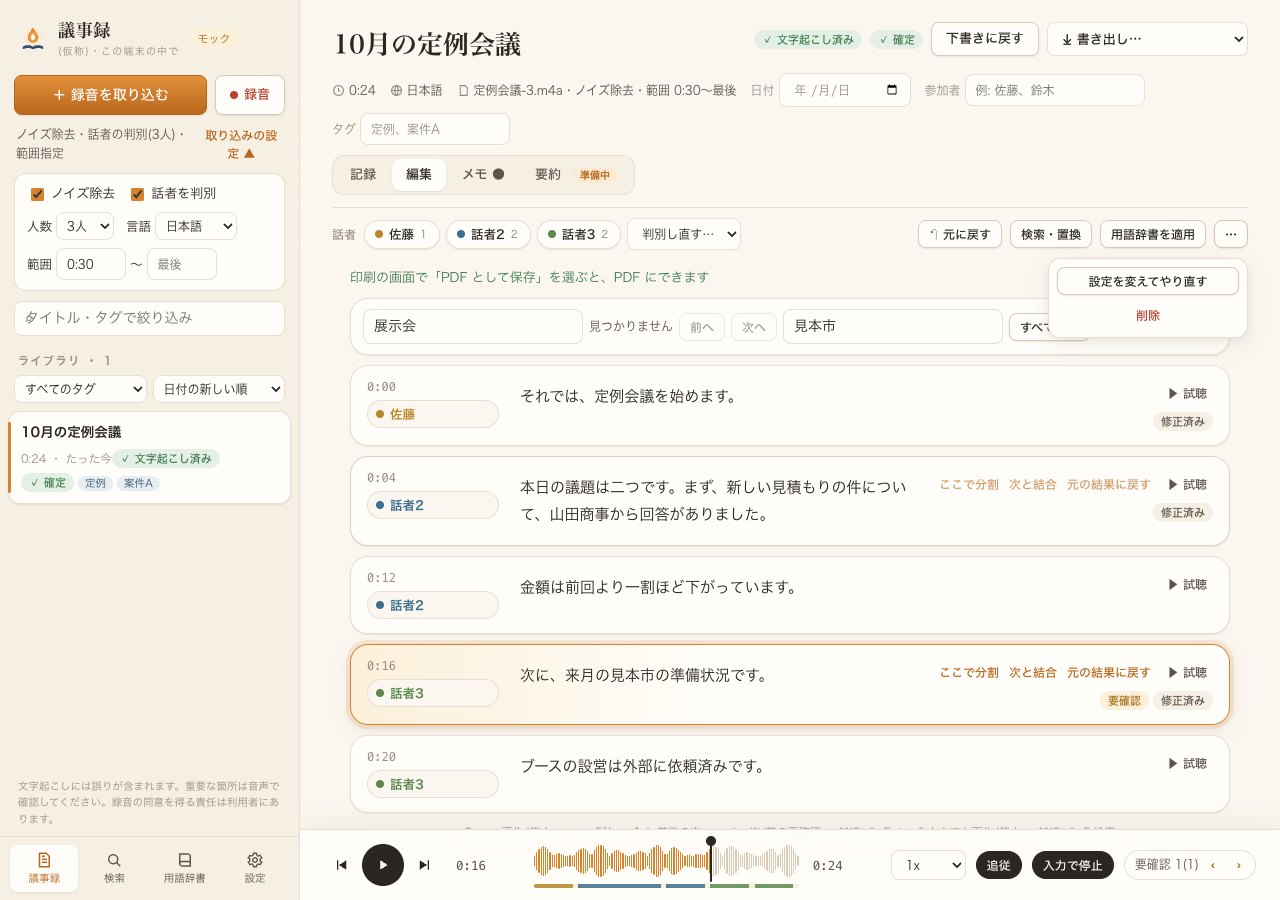
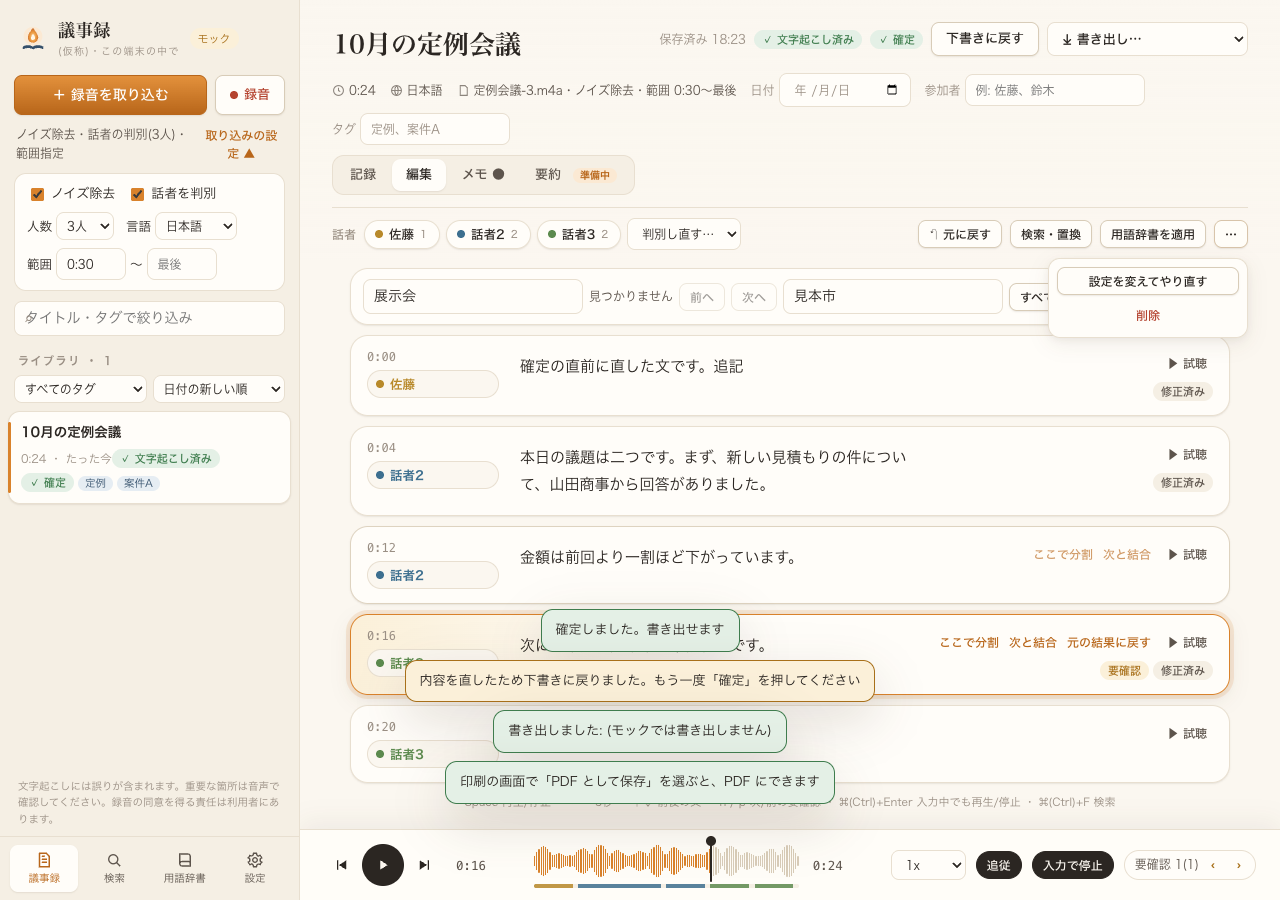
fix(minutes): 入力直後に「確定」を押すと確定が効かない問題を直し、保存・停止の状況を画面に出す
入力欄を離れたときの保存と「確定」が並行して動き、あとから届いた保存が下書きに戻していた。
変更を伴う操作を1本の順番待ちにし、確定・書き出しの前に入力中の内容の保存を待つ。
保存の状態表示、お知らせ(トースト)、確定できない理由、処理が止まったときのバナーを追加。

Changed region(s): [[0.25, 0.28, 0.9688, 0.9022], [0.5312, 0.0311, 0.5625, 0.0622]]

diff --git a/apps/minutes/ui/src/DetailView.tsx b/apps/minutes/ui/src/DetailView.tsx
@@ -1,7 +1,8 @@
 import { memo, useCallback, useEffect, useLayoutEffect, useMemo, useRef, useState } from "react";
 import type { Api } from "./api";
 import { OptionsForm, optionsValid } from "./OptionsForm";
-import type { Detail, ExportFormat, Plan, ProcessOptions, Segment, SettingsInfo, Todo } from "./types";
+import { notify } from "./toast";
+import type { Detail, ExportFormat, Plan, ProcessOptions, Progress, Segment, SettingsInfo, Todo } from "./types";
 import { LANGUAGE_LABEL, STATE_LABEL, hms, speakerColor } from "./types";
 
 const SPEEDS = [0.75, 1, 1.25, 1.5, 2];
@@ -218,9 +219,10 @@ function PrintDialog({ value, onChange, onPrint, onClose }: { value: PrintOption
 }
 
 /** 1つの議事録の確認画面 */
-export function DetailView({ api, id, version, seekTo, settings, plan, onChanged, onDeleted, onRetry, onReprocessed }: {
+export function DetailView({ api, id, version, seekTo, settings, plan, progress, jobsActive, jobError, onChanged, onDeleted, onRetry, onReprocessed, onResume, onOpenSettings }: {
   api: Api; id: number; version: number; seekTo: { ms: number; n: number } | null; settings: SettingsInfo | null; plan: Plan | null;
-  onChanged: () => void; onDeleted: () => void; onRetry: () => void; onReprocessed: () => void;
+  progress: Progress | null; jobsActive: boolean; jobError: string | null;
+  onChanged: () => void; onDeleted: () => void; onRetry: () => void; onReprocessed: () => void; onResume: () => void; onOpenSettings: () => void;
 }) {
   const [d, setD] = useState<Detail | null>(null);
   const [audio, setAudio] = useState<string | null>(null);
@@ -242,14 +244,27 @@ export function DetailView({ api, id, version, seekTo, settings, plan, onChanged
   const player = useRef<HTMLAudioElement>(null);
   const pausedByTyping = useRef(false);
   const lastPlaying = useRef<number | undefined>(undefined);
+  // 保存の状態(順番待ちの数・最後の結果)
+  const [pending, setPending] = useState(0);
+  const [saveRes, setSaveRes] = useState<{ ok: true; at: Date } | { ok: false; why: string; retry: () => void } | null>(null);
+  const chain = useRef<Promise<unknown>>(Promise.resolve());
+  const statusRef = useRef<string | null>(null);
+  const expectDraft = useRef(false);
+  const fails = useRef(0);
 
   const apply = useCallback((x: Detail) => {
+    // 確定のあとに内容を直すと、下書きに戻る。黙って戻ると「確定が効かない」ように見えるので知らせる
+    if (statusRef.current === "confirmed" && x.meeting.status === "draft" && !expectDraft.current) {
+      notify("info", "内容を直したため下書きに戻りました。もう一度「確定」を押してください");
+    }
+    expectDraft.current = false;
+    statusRef.current = x.meeting.status;
     setD(x);
     setMeta({ title: x.meeting.title, heldOn: x.meeting.heldOn ?? "", participants: x.meeting.participantsText, tags: x.meeting.tags.join("、") });
   }, []);
 
   useEffect(() => {
-    api.detail(id).then(apply).catch((e) => setMsg(String(e)));
+    api.detail(id).then(apply).catch((e) => { setMsg(String(e)); notify("err", `読み込めませんでした: ${e}`); });
     api.audioUrl(id).then(setAudio).catch(() => setAudio(null));
   }, [api, id, version, apply]);
 
@@ -282,10 +297,37 @@ export function DetailView({ api, id, version, seekTo, settings, plan, onChanged
     return () => { alive = false; };
   }, [api, id, audio, d?.meeting.recording, d?.meeting.state]);
 
-  const run = useCallback(async (f: () => Promise<Detail>, after?: string) => {
-    try { apply(await f()); setMsg(after ?? null); onChanged(); }
-    catch (e) { setMsg(String(e)); }
+  /** 変更を伴う操作は、1本の列に並べて順番に実行する(入力欄を離れた保存と「確定」が前後しないように)。成功したら新しい内容を返す */
+  const run = useCallback((f: () => Promise<Detail>, after?: string, opts?: { toDraft?: boolean }): Promise<Detail | null> => {
+    setPending((n) => n + 1);
+    const job = chain.current.then(async () => {
+      try {
+        if (opts?.toDraft) expectDraft.current = true;
+        const x = await f();
+        apply(x);
+        setSaveRes({ ok: true, at: new Date() });
+        if (after) notify("ok", after);
+        onChanged();
+        return x;
+      } catch (e) {
+        expectDraft.current = false;
+        fails.current++;
+        const why = String(e).replace(/^Error:\s*/, "");
+        setSaveRes({ ok: false, why, retry: () => { run(f, after, opts); } });
+        notify("err", `保存できませんでした: ${why}`);
+        return null;
+      } finally { setPending((n) => n - 1); }
+    });
+    chain.current = job;
+    return job;
   }, [apply, onChanged]);
+
+  /** 入力中の欄を確定(blur)させ、その保存を含めて順番待ちが空になるまで待つ */
+  const flush = useCallback(async () => {
+    (document.activeElement as HTMLElement | null)?.blur?.();
+    await new Promise((r) => setTimeout(r, 0));
+    await chain.current;
+  }, []);
 
   // 文の操作(memo の Row に渡すため、ref で最新を持つ)
   const actions = useRef<RowActions>(null as unknown as RowActions);
@@ -380,12 +422,23 @@ export function DetailView({ api, id, version, seekTo, settings, plan, onChanged
     run(() => api.updateMeta(id, meta.title, meta.heldOn || null, meta.participants));
   };
 
+  const confirm = async () => {
+    const before = fails.current;
+    await flush();
+    if (fails.current !== before) { notify("err", "直した内容を保存できなかったため、確定しませんでした。保存し直してから「確定」を押してください"); return; }
+    const x = await run(() => api.confirm(id));
+    if (!x) return;
+    if (x.meeting.status === "confirmed") notify("ok", "確定しました。書き出せます");
+    else notify("err", "確定できませんでした。下書きのままです。もう一度「確定」を押してください");
+  };
+
   const exp = async (f: ExportFormat | "wav" | "pdf") => {
     try {
+      await flush();
       if (f === "pdf") { setPrintAsk(true); return; }
       const p = f === "wav" ? await api.exportDenoised(id) : await api.exportAs(id, f);
-      if (p) setMsg(`書き出しました: ${p}`);
-    } catch (e) { setMsg(String(e)); }
+      if (p) notify("ok", `書き出しました: ${p}`);
+    } catch (e) { notify("err", `書き出せませんでした: ${String(e).replace(/^Error:\s*/, "")}`); }
   };
 
   const doFind = async (q: string) => {
@@ -408,6 +461,30 @@ export function DetailView({ api, id, version, seekTo, settings, plan, onChanged
     file: <svg viewBox="0 0 24 24" fill="none" stroke="currentColor" strokeWidth="2"><path d="M6 3h9l4 4v14H6z" /></svg>,
   };
   const views: [View, string, string?][] = [["read", "記録"], ["edit", "編集"], ["memo", "メモ", "議題・決定事項・ToDo"], ["summary", "要約"]];
+  const busyHere = !!progress && progress.busy && progress.meetingId === id;
+  const confirmWhy: string | null =
+    m.recording ? "録音中です。録音を止めて、文字起こしが終わると確定できます"
+    : m.state === "failed" ? `処理できませんでした: ${m.error ?? "理由は不明です"}。「やり直す」を押してください`
+    : m.state === "processing" ? `文字起こし中のため、終わるまで確定できません${busyHere && progress!.totalChunks ? `(${progress!.doneChunks}/${progress!.totalChunks} 区間)` : ""}`
+    : m.state === "queued" ? (progress?.busy ? "ほかの議事録を文字起こし中です。順番が来ると始まります。終わるまで確定できません" : "待ちの状態です。左の「再開」で文字起こしを始めてください")
+    : d.provisional ? "正確なモデルで文字起こし中です(仮の文字が残っています)。置き換わるまで確定できません"
+    : null;
+  // 処理が止まっているとき: 理由と次にすることを、スクロールしても見える所(ヘッダー)に出す
+  const limitHit = /有料版/.test(m.error ?? "");
+  const stall: { kind: "err" | "wait"; text: string; action: string; go: () => void; settings?: boolean } | null =
+    m.state === "failed"
+      ? {
+        kind: "err",
+        text: `文字起こしが止まりました: ${m.error ?? "理由は不明です"}。${limitHit ? "有料版にすると、続きから文字起こしできます。" : /モデル/.test(m.error ?? "") ? "設定でモデルを用意してから、やり直してください。" : "音声は残っています。やり直すと、最初から文字起こしします。"}`,
+        action: limitHit ? "続きから文字起こし" : "やり直す", go: onRetry, settings: /モデル/.test(m.error ?? ""),
+      }
+      : m.state === "queued" && !m.recording && !jobsActive && progress && !progress.busy && progress.pending > 0
+        ? {
+          kind: "wait",
+          text: jobError ? `文字起こしを始められませんでした: ${jobError}` : "文字起こしの順番待ちで止まっています(待ち " + progress.pending + " 件)。「再開」を押すと始まります。",
+          action: "再開", go: onResume, settings: /モデル/.test(jobError ?? ""),
+        }
+        : null;
   const durMs = m.durationMs ?? (segs.length ? segs[segs.length - 1].endMs : 0);
   const readOnly = d.provisional || m.recording;
   const paras: { id: number; t: number; sp: string; tx: string; end: number }[] = [];
@@ -424,11 +501,14 @@ export function DetailView({ api, id, version, seekTo, settings, plan, onChanged
           <input className="d-title" aria-label="タイトル" value={meta.title} onChange={(e) => setMeta({ ...meta, title: e.target.value })} onBlur={saveMeta}
             onKeyDown={(e) => { if (e.key === "Enter") (e.target as HTMLInputElement).blur(); }} />
           <div className="d-actions">
+            <span className={"save-ind " + (pending > 0 ? "saving" : saveRes && !saveRes.ok ? "err" : "")} aria-live="polite" data-testid="save-ind">
+              {pending > 0 ? "保存中…" : saveRes?.ok ? `保存済み ${saveRes.at.getHours()}:${String(saveRes.at.getMinutes()).padStart(2, "0")}` : saveRes ? <>保存できませんでした({saveRes.why})<button className="link" onClick={saveRes.retry}>再試行</button></> : ""}
+            </span>
             <span className={`badge s-${m.state}`}>{m.recording ? "録音中" : STATE_LABEL[m.state]}</span>
             <span className={"badge " + (m.status === "confirmed" ? "ok" : "muted")}>{m.status === "confirmed" ? "確定" : "下書き"}</span>
             {m.status === "draft"
-              ? <button className="btn primary" disabled={!done || readOnly} onClick={() => run(() => api.confirm(id), "確定しました。書き出せます")}>確定</button>
-              : <button className="btn" onClick={() => run(() => api.unconfirm(id))}>下書きに戻す</button>}
+              ? <button className="btn primary" disabled={!!confirmWhy} title={confirmWhy ?? "内容を確認できたら押してください"} aria-describedby={confirmWhy ? "confirm-why" : undefined} onClick={confirm}>確定</button>
+              : <button className="btn" onClick={() => run(() => api.unconfirm(id), undefined, { toDraft: true })}>下書きに戻す</button>}
             <select aria-label="書き出し" value="" disabled={m.status !== "confirmed"} onChange={(e) => { if (e.target.value) exp(e.target.value as ExportFormat | "wav" | "pdf"); }}>
               <option value="">⤓ 書き出し…</option>
               {([["docx", "Word(.docx)"], ["pdf", "PDF(印刷から保存)"], ["md", "Markdown"], ["txt", "テキスト"], ["srt", "字幕(SRT)"], ...(m.hasAudio ? [["wav", "ノイズ除去後の音声(WAV)"]] : [])] as [string, string][]).map(([v, label]) => {
@@ -438,6 +518,14 @@ export function DetailView({ api, id, version, seekTo, settings, plan, onChanged
             </select>
           </div>
         </div>
+        {m.status === "draft" && confirmWhy && <p className="d-why" id="confirm-why" data-testid="confirm-why">{confirmWhy}</p>}
+        {stall && (
+          <div className={"stall" + (stall.kind === "wait" ? " wait" : "")} role="alert" data-testid="stall">
+            <span className="grow">{stall.text}</span>
+            {stall.settings && <button className="btn small" onClick={onOpenSettings}>設定を開く</button>}
+            <button className="btn small primary" onClick={stall.go}>{stall.action}</button>
+          </div>
+        )}
         <div className="meta-row">
           <span className="mi">{ic.clock}{durMs ? hms(durMs) : "--:--"}</span>
           <span className="mi">{ic.globe}{LANGUAGE_LABEL[m.language]}</span>
@@ -491,7 +579,7 @@ export function DetailView({ api, id, version, seekTo, settings, plan, onChanged
             <span className="grow" />
             <button className="btn small" disabled={!d.canUndo} onClick={() => run(() => api.undo(id))} title="元に戻す">↶ 元に戻す</button>
             <button className="btn small" onClick={() => setFind((f) => ({ ...f, open: !f.open }))}>検索・置換</button>
-            <button className="btn small" disabled={!done || !(plan?.glossary ?? true)} title={plan?.glossary ?? true ? "" : "有料版の機能です"} onClick={async () => { try { const [n, x] = await api.reapplyGlossary(id); apply(x); setMsg(`用語辞書で ${n} 件を置き換えました(手で直した文は変えません)`); } catch (e) { setMsg(String(e)); } }}>用語辞書を適用</button>
+            <button className="btn small" disabled={!done || !(plan?.glossary ?? true)} title={plan?.glossary ?? true ? "" : "有料版の機能です"} onClick={async () => { try { const [n, x] = await api.reapplyGlossary(id); apply(x); notify("ok", `用語辞書で ${n} 件を置き換えました(手で直した文は変えません)`); onChanged(); } catch (e) { notify("err", `用語辞書を適用できませんでした: ${e}`); } }}>用語辞書を適用</button>
             <details className="more">
               <summary className="btn small icon" aria-label="その他">⋯</summary>
               <div className="menu">
@@ -499,7 +587,7 @@ export function DetailView({ api, id, version, seekTo, settings, plan, onChanged
                   onClick={() => setRedo({ denoise: m.denoise, diarize: m.diarize, numSpeakers: m.numSpeakers, language: m.language, rangeStartMs: m.rangeStartMs, rangeEndMs: m.rangeEndMs })}>設定を変えてやり直す</button>
                 {!delAsk ? <button className="btn small ghost" onClick={() => setDelAsk(true)}>削除</button> : (
                   <span className="ask">音声と文字をまとめて消します。
-                    <button className="btn small danger" onClick={async () => { try { await api.deleteMeeting(id); onDeleted(); } catch (e) { setMsg(String(e)); setDelAsk(false); } }}>消す</button>
+                    <button className="btn small danger" onClick={async () => { try { await flush(); await api.deleteMeeting(id); onDeleted(); } catch (e) { notify("err", `削除できませんでした: ${e}`); setDelAsk(false); } }}>消す</button>
                     <button className="btn small" onClick={() => setDelAsk(false)}>やめる</button>
                   </span>
                 )}
@@ -517,8 +605,8 @@ export function DetailView({ api, id, version, seekTo, settings, plan, onChanged
             <p className="msg err">これまでの修正(文・話者・結合・分割)は消えます。タイトル・日付・参加者・議題などは残ります。</p>
             <div className="row">
               <button className="btn danger" disabled={!optionsValid(redo)} onClick={async () => {
-                try { await api.reprocess(id, redo); setRedo(null); setMsg("やり直しを始めました"); onReprocessed(); api.detail(id).then(apply); }
-                catch (e) { setMsg(String(e)); }
+                try { await flush(); await api.reprocess(id, redo); setRedo(null); notify("ok", "やり直しを始めました"); onReprocessed(); api.detail(id).then(apply); }
+                catch (e) { notify("err", `やり直せませんでした: ${e}`); }
               }}>やり直す</button>
               <button className="btn" onClick={() => setRedo(null)}>やめる</button>
             </div>
@@ -535,8 +623,6 @@ export function DetailView({ api, id, version, seekTo, settings, plan, onChanged
             </p>
           )}
           {m.status !== "confirmed" && done && !d.provisional && view === "edit" && <p className="note">内容を確認して「確定」すると書き出せます。</p>}
-          {msg && <p className="msg">{msg}</p>}
-          {m.state === "failed" && <p className="msg err">処理できませんでした: {m.error} <button className="btn small" onClick={onRetry}>{/有料版/.test(m.error ?? "") ? "続きから文字起こし" : "やり直す"}</button></p>}
           {plan?.tier === "free" && done && <p className="note">無料版は小さなモデルで文字起こししています。有料版では、より正確なモデルで文字起こしし直せます。</p>}
 
           {find.open && (
@@ -548,8 +634,8 @@ export function DetailView({ api, id, version, seekTo, settings, plan, onChanged
               <button className="btn small" disabled={!find.hits.length} onClick={() => stepFind(1)}>次へ</button>
               <input placeholder="置き換える語" value={find.r} onChange={(e) => setFind({ ...find, r: e.target.value })} />
               <button className="btn small" disabled={!find.q} onClick={async () => {
-                try { const [n, x] = await api.replaceIn(id, find.q, find.r); apply(x); setMsg(`${n} 件の文で置き換えました(「元に戻す」で戻せます)`); setFind({ ...find, hits: [], i: 0 }); onChanged(); }
-                catch (e) { setMsg(String(e)); }
+                try { await flush(); const [n, x] = await api.replaceIn(id, find.q, find.r); apply(x); notify("ok", `${n} 件の文で置き換えました(「元に戻す」で戻せます)`); setFind({ ...find, hits: [], i: 0 }); onChanged(); }
+                catch (e) { notify("err", `置き換えられませんでした: ${e}`); }
               }}>すべて置換</button>
               <button className="link" onClick={() => setFind({ ...find, open: false, hits: [] })}>閉じる</button>
             </div>
@@ -616,7 +702,7 @@ export function DetailView({ api, id, version, seekTo, settings, plan, onChanged
       <datalist id="speakers">{d.speakers.map((s) => <option key={s} value={s} />)}</datalist>
       {printAsk && (
         <PrintDialog value={printOpts} onChange={setPrintOpts} onClose={() => setPrintAsk(false)}
-          onPrint={async () => { setPrintAsk(false); try { await api.printPage(); setMsg("印刷の画面で「PDF として保存」を選ぶと、PDF にできます"); } catch (e) { setMsg(String(e)); } }} />
+          onPrint={async () => { setPrintAsk(false); try { await api.printPage(); notify("ok", "印刷の画面で「PDF として保存」を選ぶと、PDF にできます"); } catch (e) { notify("err", `印刷の画面を開けませんでした: ${e}`); } }} />
       )}
       <PrintDoc d={d} o={printOpts} />
     </div>

diff --git a/apps/minutes/ui/src/App.tsx b/apps/minutes/ui/src/App.tsx
@@ -6,6 +6,7 @@ import { OptionsForm, defaultOptions, optionsValid } from "./OptionsForm";
 import { Recorder } from "./Recorder";
 import { SearchView } from "./SearchView";
 import { SettingsView } from "./SettingsView";
+import { Toasts, notify } from "./toast";
 import type { ImportResult, Meeting, MeetingFilter, Plan, ProcessOptions, Progress, SettingsInfo } from "./types";
 import { STATE_LABEL, ago, hms } from "./types";
 import logo from "../../core/brand/logo.svg";
@@ -30,6 +31,7 @@ export function App({ api }: { api: Api }) {
   const [askConsent, setAskConsent] = useState<null | (() => void)>(null);
   const [version, setVersion] = useState(0);
   const [jobError, setJobError] = useState<string | null>(null);
+  const [jobsActive, setJobsActive] = useState(false);
   const running = useRef(false);
 
   const refresh = useCallback(async () => {
@@ -45,15 +47,17 @@ export function App({ api }: { api: Api }) {
   const startJobs = useCallback(async () => {
     if (running.current) return;
     running.current = true;
+    setJobsActive(true);
     const timer = setInterval(() => { refresh().catch(() => undefined); }, 800);
     try {
       setJobError(null);
-      await api.runJobs().catch((e) => setJobError(String(e)));
+      await api.runJobs().catch((e) => { const t = String(e).replace(/^Error:\s*/, ""); setJobError(t); notify("err", `文字起こしを続けられませんでした: ${t}`); });
       // 画面を開き直したときなど、すでに裏で処理中なら(runJobs はすぐ戻る)、終わるまで進み具合を見続ける
       while ((await api.progress()).busy) await new Promise((r) => setTimeout(r, 1000));
     } finally {
       clearInterval(timer);
       running.current = false;
+      setJobsActive(false);
       await refresh();
       setVersion((v) => v + 1);
     }
@@ -75,6 +79,7 @@ export function App({ api }: { api: Api }) {
   const afterImport = useCallback((rs: ImportResult[]) => {
     if (!rs.length) return;
     setResults(rs);
+    for (const r of rs) if (r.error) notify("err", `取り込めませんでした(${r.name || "ファイル"}): ${r.error}`);
     const first = rs.find((r) => r.id != null);
     if (first?.id != null) setCur(first.id);
     refresh().then(startJobs);
@@ -82,7 +87,7 @@ export function App({ api }: { api: Api }) {
 
   const pick = () => {
     if (!optionsValid(opts)) { setShowOpts(true); return; }
-    withConsent(() => { api.pickAndImport(opts).then(afterImport).catch((e) => setResults([{ name: "", id: null, error: String(e) }])); });
+    withConsent(() => { api.pickAndImport(opts).then(afterImport).catch((e) => { setResults([{ name: "", id: null, error: String(e) }]); notify("err", `取り込めませんでした: ${e}`); }); });
   };
 
   // ドラッグ&ドロップ(Tauri はファイルの場所を通知する)
@@ -90,7 +95,7 @@ export function App({ api }: { api: Api }) {
   optsRef.current = opts;
   useEffect(() => {
     let off: (() => void) | undefined;
-    api.onDrop((paths) => { if (paths.length) withConsent(() => { api.importPaths(paths, optsRef.current).then(afterImport); }); }).then((f) => { off = f; });
+    api.onDrop((paths) => { if (paths.length) withConsent(() => { api.importPaths(paths, optsRef.current).then(afterImport).catch((e) => notify("err", `取り込めませんでした: ${e}`)); }); }).then((f) => { off = f; });
     return () => off?.();
   }, [api, withConsent, afterImport]);
 
@@ -209,13 +214,14 @@ export function App({ api }: { api: Api }) {
       <main className="main">
         <section className="content">
           {tab === "meetings" && (cur != null && meetings.some((m) => m.id === cur)
-            ? <DetailView key={cur} api={api} id={cur} version={version} seekTo={seekTo} settings={settings} plan={plan} onChanged={refresh} onReprocessed={() => refresh().then(startJobs)} onDeleted={() => { setCur(null); refresh(); }} onRetry={() => api.retry(cur).then(() => refresh()).then(startJobs)} />
+            ? <DetailView key={cur} api={api} id={cur} version={version} seekTo={seekTo} settings={settings} plan={plan} progress={progress} jobsActive={jobsActive} jobError={jobError} onResume={startJobs} onOpenSettings={() => setTab("settings")} onChanged={refresh} onReprocessed={() => refresh().then(startJobs)} onDeleted={() => { setCur(null); refresh(); }} onRetry={() => api.retry(cur).then(() => refresh()).then(startJobs).catch((e) => notify("err", `やり直せませんでした: ${e}`))} />
             : <div className="empty"><img src={logo} alt="" width={56} /><p>左の「録音を取り込む」か「録音」から始めましょう。</p></div>)}
           {tab === "search" && <SearchView api={api} onOpen={openAt} />}
           {tab === "glossary" && <GlossaryView api={api} plan={plan} />}
           {tab === "settings" && <SettingsView api={api} settings={settings} plan={plan} onSettings={(s) => { setSettings(s); }} onDeleted={() => { setCur(null); refresh(); }} onModelReady={() => { refresh().then(startJobs); }} />}
         </section>
       </main>
+      <Toasts />
     </div>
   );
 }

diff --git a/apps/minutes/ui/src/styles.css b/apps/minutes/ui/src/styles.css
@@ -301,3 +301,20 @@ details.more .menu { position: absolute; right: 0; top: 38px; z-index: 6; backgr
 .pane { max-width: 980px; margin: 0 auto; padding: 28px 32px 48px; display: flex; flex-direction: column; gap: 14px; }
 .pane > .card:first-child h2, .pane h2 { font-family: var(--font-serif); font-size: 16px; }
 .card input:not([type]), .card input[type=text] { min-width: 220px; }
+
+/* ---- お知らせ・保存の状態・止まっている理由 ---- */
+.toasts { position: fixed; left: 50%; transform: translateX(-50%); bottom: 96px; z-index: 30; display: flex; flex-direction: column; gap: 8px; align-items: center; width: min(560px, calc(100vw - 32px)); pointer-events: none; }
+.toast { pointer-events: auto; display: flex; gap: 10px; align-items: flex-start; padding: 10px 14px; border-radius: var(--r-md); border: 1px solid var(--line-strong); background: var(--surface); box-shadow: var(--shadow-3); font-size: 13px; line-height: 1.6; max-width: 100%; animation: fade .15s var(--ease); }
+.toast.ok { border-color: var(--ok); background: var(--ok-soft); color: var(--ink); }
+.toast.info { border-color: var(--warn); background: var(--warn-soft); color: var(--ink); }
+.toast.err { border-color: var(--danger); background: var(--danger-soft); color: var(--danger); font-weight: 600; }
+.toast-text { flex: 1; word-break: break-word; }
+.toast-x { border: 0; background: none; color: inherit; font-size: 16px; line-height: 1; cursor: pointer; padding: 2px 4px; }
+.save-ind { font-size: 12px; color: var(--ink-3); white-space: nowrap; }
+.save-ind.saving { color: var(--flame-deep); }
+.save-ind.err { color: var(--danger); font-weight: 600; white-space: normal; }
+.save-ind .link { margin-left: 4px; }
+.d-why { margin: 4px 0 0; text-align: right; font-size: 12px; color: var(--warn); line-height: 1.6; }
+.stall { display: flex; flex-wrap: wrap; gap: 8px 12px; align-items: center; margin: 8px 0 10px; padding: 10px 14px; border-radius: var(--r-md); background: var(--danger-soft); border: 1px solid var(--danger); color: var(--danger); font-size: 13px; line-height: 1.6; }
+.stall.wait { background: var(--warn-soft); border-color: var(--warn); color: var(--ink); }
+.stall .grow { min-width: 200px; }

diff --git a/apps/minutes/ui/src/api.ts b/apps/minutes/ui/src/api.ts
@@ -234,7 +234,7 @@ export function makeMockApi(): Api {
       for (const x of meetings) for (const t of x.tags) c.set(t, (c.get(t) ?? 0) + 1);
       return [...c.entries()].sort();
     },
-    async setTags(id, tags) { meetings = meetings.map((x) => (x.id === id ? { ...x, tags: [...new Set(tags.map((t) => t.trim()).filter(Boolean))].sort() } : x)); return det(id); },
+    async setTags(id, tags) { meetings = meetings.map((x) => (x.id === id ? { ...x, tags: [...new Set(tags.map((t) => t.trim()).filter(Boolean))].sort(), status: "draft" } : x)); return det(id); },
     async updateNotes(id, agenda, decisions, todos) {
       if (todos.some((t) => t.due && !/^\d{4}-\d{2}-\d{2}$/.test(t.due))) throw new Error("ToDo の期限は YYYY-MM-DD の形で入力してください");
       meetings = meetings.map((x) => (x.id === id ? { ...x, agenda, decisions, todos: todos.filter((t) => t.text.trim()), status: "draft" } : x));
@@ -318,7 +318,7 @@ export function makeMockApi(): Api {
       meetings = meetings.map((x) => (x.id === id ? { ...x, title, heldOn, participantsText: participants, status: "draft" } : x));
       return det(id);
     },
-    async editText(sid, text) { const id = owner(sid); cp(id); segs.set(id, segs.get(id)!.map((s) => (s.id === sid ? { ...s, text, edited: true } : s))); return det(id); },
+    async editText(sid, text) { await wait(300); const id = owner(sid); cp(id); segs.set(id, segs.get(id)!.map((s) => (s.id === sid ? { ...s, text, edited: true } : s))); return det(id); },
     async setSpeaker(sid, speaker, following) {
       const id = owner(sid); cp(id);
       const ss = segs.get(id)!; const i = ss.findIndex((s) => s.id === sid); const old = ss[i].speaker;

diff --git a/apps/minutes/ui/src/toast.tsx b/apps/minutes/ui/src/toast.tsx
@@ -1,0 +1,41 @@
+import { useSyncExternalStore } from "react";
+
+/** 画面の右下(プレーヤーの上)に出す短いお知らせ。成功は数秒で消え、エラーは閉じるまで残る */
+export type ToastKind = "ok" | "info" | "err";
+export interface ToastItem { id: number; kind: ToastKind; text: string }
+
+let items: ToastItem[] = [];
+let seq = 1;
+const subs = new Set<() => void>();
+const emit = () => subs.forEach((f) => f());
+
+export function dismissToast(id: number) {
+  items = items.filter((t) => t.id !== id);
+  emit();
+}
+
+export function notify(kind: ToastKind, text: string) {
+  // 同じ文言が出ているときは重ねない(続けて同じ失敗が起きても山にならないように)
+  if (items.some((t) => t.kind === kind && t.text === text)) return;
+  const id = seq++;
+  items = [...items, { id, kind, text }].slice(-4);
+  emit();
+  if (kind !== "err") setTimeout(() => dismissToast(id), kind === "info" ? 7000 : 4000);
+}
+
+const subscribe = (f: () => void) => { subs.add(f); return () => { subs.delete(f); }; };
+const snapshot = () => items;
+
+export function Toasts() {
+  const list = useSyncExternalStore(subscribe, snapshot);
+  return (
+    <div className="toasts">
+      {list.map((t) => (
+        <div key={t.id} className={`toast ${t.kind}`} role={t.kind === "err" ? "alert" : "status"} data-testid="toast">
+          <span className="toast-text">{t.text}</span>
+          {t.kind === "err" && <button className="toast-x" aria-label="閉じる" onClick={() => dismissToast(t.id)}>×</button>}
+        </div>
+      ))}
+    </div>
+  );
+}
